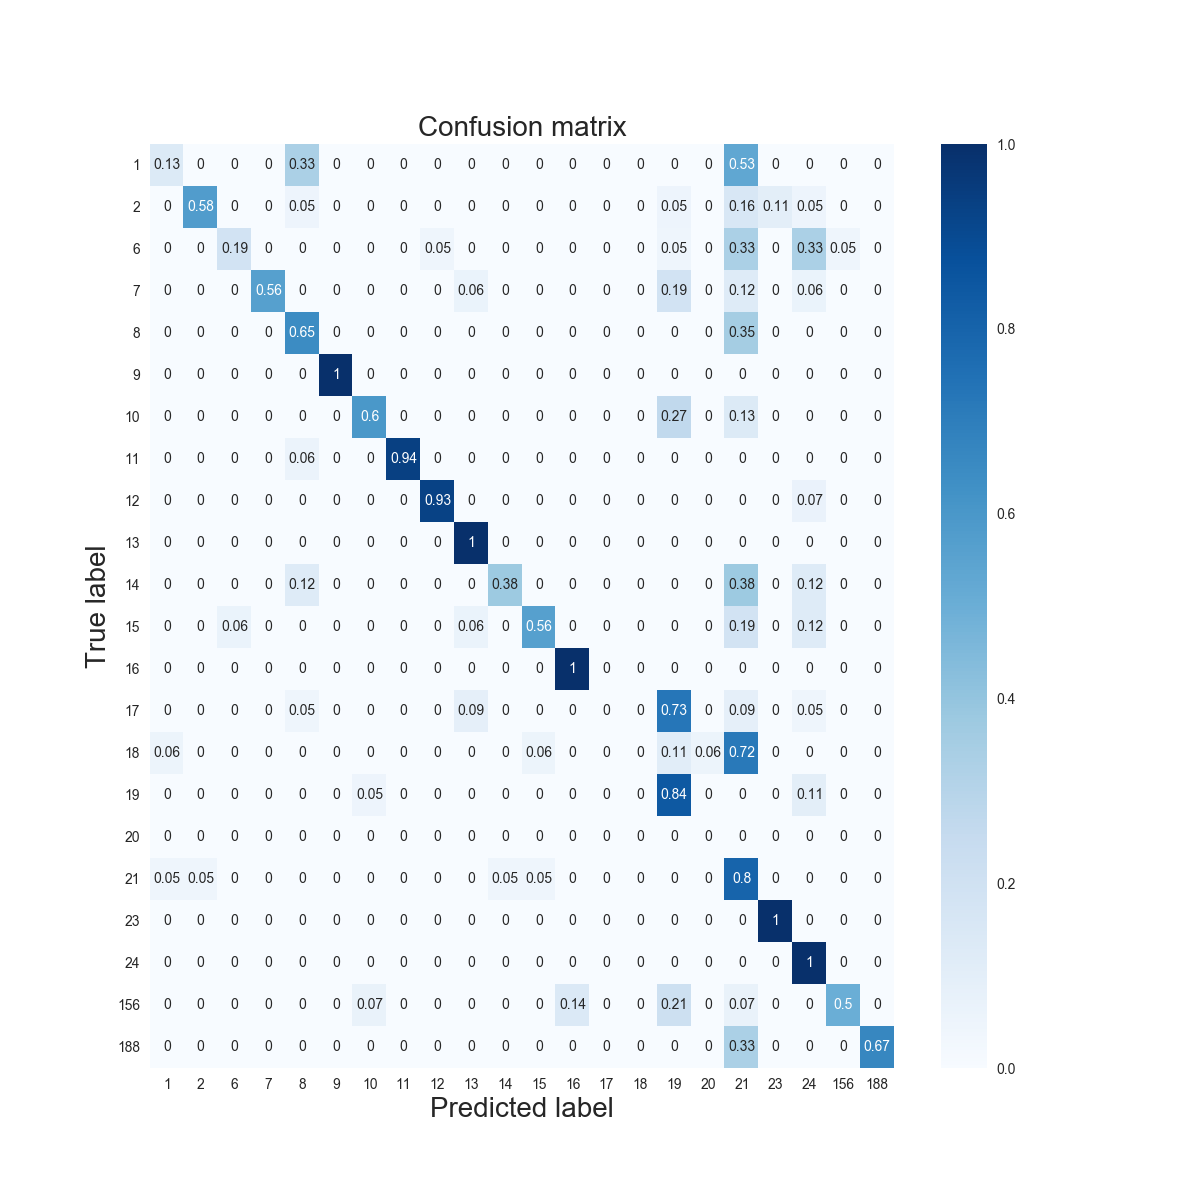
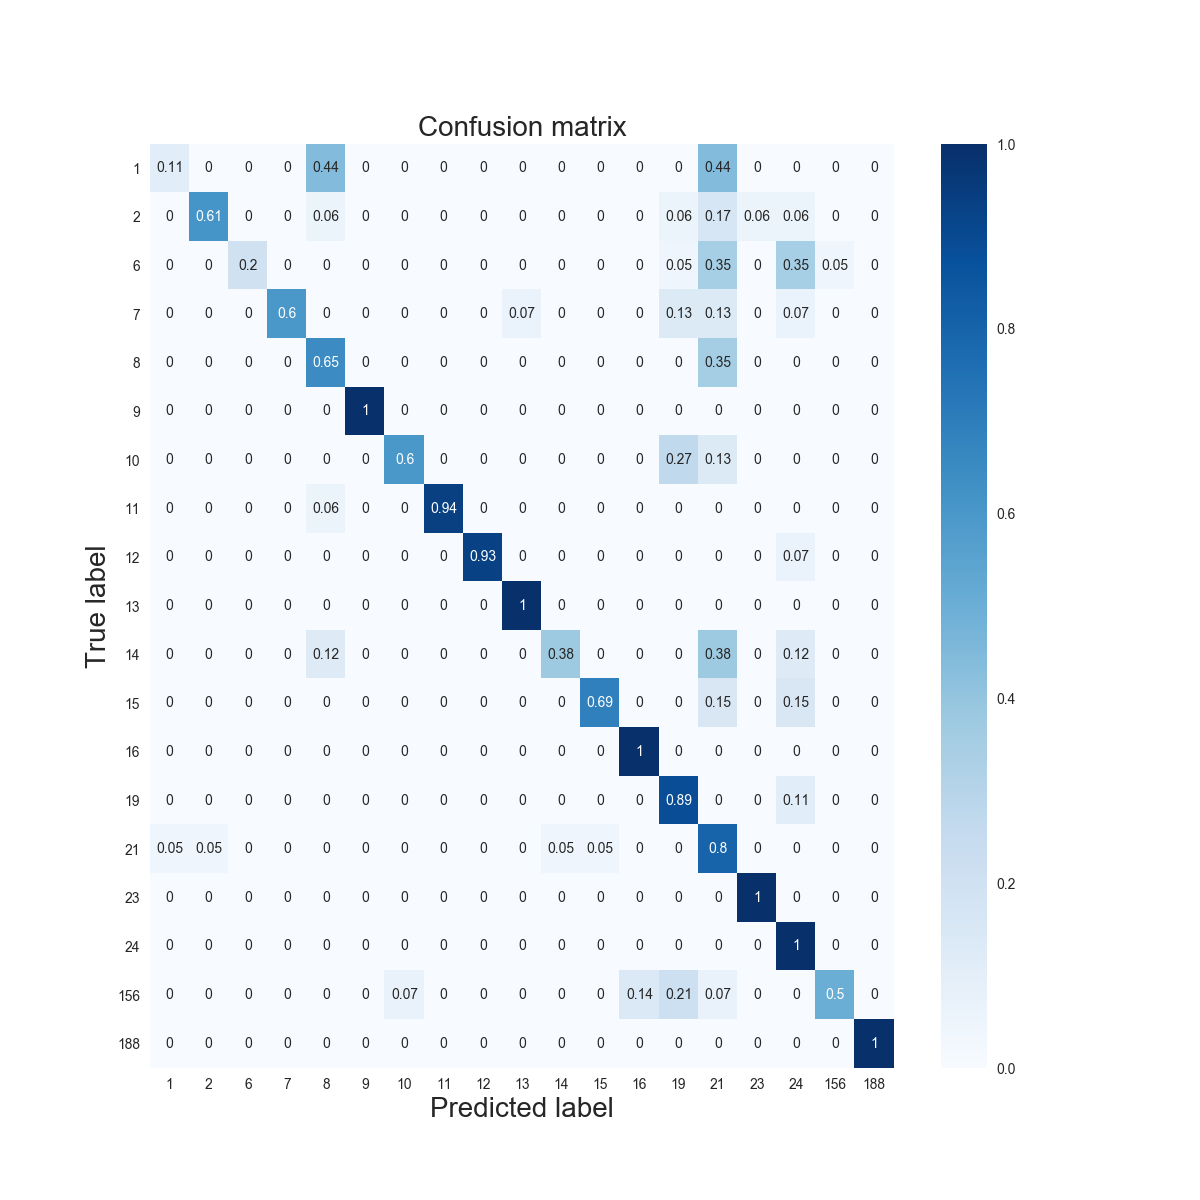
Update

diff --git a/hyper_parameters.py b/hyper_parameters.py
@@ -11,28 +11,31 @@ RANDOM_STATE = 7
 VOCAB_PATH = "./Vocabulary/vocab_17012.csv"
 
 MAP_LABEL_ID_TO_TEXT = {
-    1: "Thông số kĩ thuật",
-    2: "Viễn thông",
-    6: "Du lịch",
-    7: "Giáo dục",
-    8: "Sản phẩm",
-    9: "Công thức nấu ăn",
-    10: "Y tế",
-    11: "Mỹ phẩm",
-    12: "Thời trang",
-    13: "Bất động sản",
-    14: "Thiết kế nội thất",
-    15: "Ẩm thực",
-    16: "Xe cộ",
-    17: "Đời sống - Chứng khoán",
-    19: "Kinh tế - Chính trị - Xã hội",
-    20: "Nông nghiệp - Công nghiệp",
-    21: "Quảng cáo công ty",
+    1: "Điện tử - Điện lạnh",
+    2: "Viễn thông - Truyền thông",
+    6: "Du lịch - Vận tải",
+    7: "Việc làm - Giáo dục",
+    8: "Hàng tiêu dùng",
+    9: "Thực phẩm - Đồ uống",
+    10: "Y tế - Thuốc",
+    11: "Chăm sóc sắc đẹp",
+    12: "Thời trang - Trang sức",
+    13: "Xây dựng - Bất động sản",
+    14: "Đồ nội thất, ngoại thất",
+    15: "Nhà hàng, quán bar, trung tâm giải trí",
+    16: "Ô tô - Xe máy",
+    17: "Tài chính, bảo hiểm",
+    18: "Bán buôn, bán lẻ",
+    19: "Luật - Chính phủ",
+    20: "Ngành công nghiệp, đặc thù",
+    21: "Dịch vụ",
     22: "Kế toán - Kiểm toán",
     23: "Game",
     24: "Mẹ và bé",
     156: "Hàng không",
-    188: "Bóng đá",
+    188: "Thể thao",
 }
 
 LABELS = sorted(list(MAP_LABEL_ID_TO_TEXT.keys()))
+REMOVE_LABEL_IDS = [17, 18]
+REMOVE_DOC_IDS = [1,3,8,9,11,12,95,98,108,143,144,145,148,149,150,151,152,183,187,266,286,335]

diff --git a/utils.py b/utils.py
@@ -321,6 +321,29 @@ class MyEncoder(json.JSONEncoder):
             return super(MyEncoder, self).default(obj)
 
 
+def filter_data_by_id(data, remove_ids):
+    print("Before remove ids ({}), data size = {}".format(remove_ids, len(data)))
+    filtered_data = []
+    for data_point in data:
+        if data_point["id"] not in remove_ids:
+            filtered_data.append(data_point)
+
+    print("After remove ids ({}), data size = {}".format(remove_ids, len(filtered_data)))
+    return filtered_data
+
+
+def filter_data_by_label(X, y, remove_labels):
+    print("Before remove labels ({}), data size = {}".format(remove_labels, y.shape))
+    filter_X, filter_y = [], []
+    for i, j in zip(X, y):
+        if j not in remove_labels:
+            filter_X.append(i)
+            filter_y.append(j)
+
+    print("After remove labels ({}), data size = {}".format(remove_labels, len(filter_y)))
+    return np.array(filter_X), np.array(filter_y)
+
+
 if __name__ == "__main__":
     # training_file_path = "./Dataset/data_train.json"
     # test_file_path = "./Dataset/data_sent.json"

diff --git a/evaluate_ml_model.py b/evaluate_ml_model.py
@@ -2,7 +2,7 @@ import numpy as np
 import pandas as pd
 import utils, os
 from ml_model import EnsembleModel, VOCAB_PATH, SCORING
-from hyper_parameters import MAP_LABEL_ID_TO_TEXT
+from hyper_parameters import MAP_LABEL_ID_TO_TEXT, REMOVE_DOC_IDS, REMOVE_LABEL_IDS
 from sklearn.metrics import get_scorer, make_scorer, f1_score, precision_score, recall_score, accuracy_score, confusion_matrix
 
 
@@ -12,12 +12,14 @@ if __name__ == "__main__":
 
     # Load test data
     test_data = utils.load_data(test_data_path)
+    test_data = utils.filter_data_by_id(test_data, REMOVE_DOC_IDS)
 
     df = pd.DataFrame(test_data)
     print("Head of test data:")
     print(df.head())
     X_test = df.content.values
     y_test = df.label.values
+    X_test, y_test = utils.filter_data_by_label(X_test, y_test, REMOVE_LABEL_IDS)
     unique_labels = np.unique(y_test)
 
     # Load model
